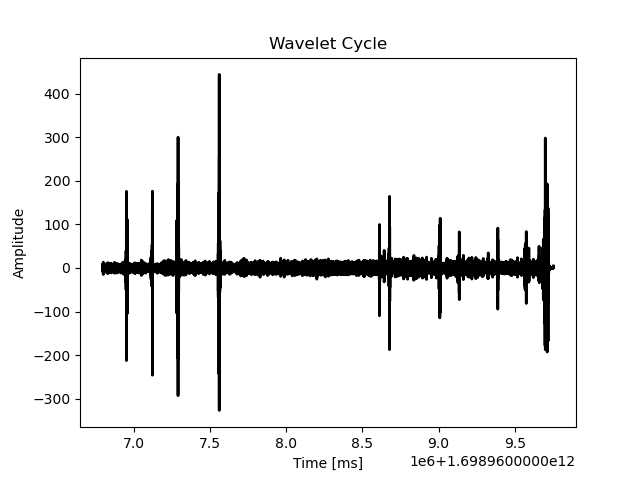
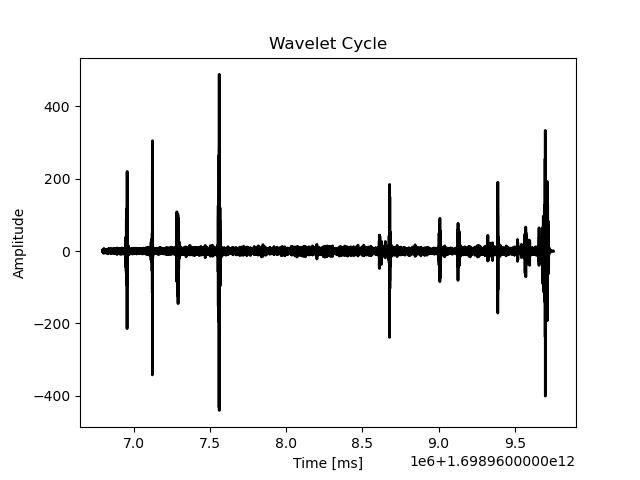
Update data_subplot function to include optional parameters and enhance main processing logic with peak detection and result visualization

diff --git a/src/main.py b/src/main.py
@@ -17,7 +17,8 @@ from modwt_matlab_fft import modwt
 from modwt_mra_matlab_fft import modwtmra
 from remove_nonLinear_trend import remove_nonLinear_trend
 from data_subplot import data_subplot
-from scipy.signal import resample
+from detect_peaks import detect_peaks
+
 # ======================================================================================================================
 
 print('\nstart processing ...')
@@ -30,6 +31,8 @@ if file.endswith(".csv"):
     if os.stat(fileName).st_size != 0:
         rawData = pd.read_csv(fileName)
         utc_time = rawData["Timestamp"].values
+        print("\U0001F4C5 BCG Start:", pd.to_datetime(utc_time.min(), unit='ms'))
+        print("\U0001F4C5 BCG End  :", pd.to_datetime(utc_time.max(), unit='ms'))
         data_stream = rawData["BCG"].values
         fs = 50
         print("✅ Loaded samples:", len(data_stream))
@@ -50,24 +53,23 @@ if file.endswith(".csv"):
         mask_bcg = (utc_time >= start_time) & (utc_time <= end_time)
         mask_rr = (rr_data['Timestamp'] >= start_time) & (rr_data['Timestamp'] <= end_time)
 
+
+
         synced_bcg = data_stream[mask_bcg]
         synced_utc = utc_time[mask_bcg]
         synced_rr = rr_data.loc[mask_rr]
         reference_hr = synced_rr['Heart Rate'].replace(0, np.nan).dropna().to_numpy()
-        print("UTC time units:", utc_time.min(), utc_time.max())
-        print("RR time units:", rr_data['Timestamp'].min(), rr_data['Timestamp'].max())
-        
 
-
-        print("\U0001F552 Sync window (ms):", start_time, "→", end_time)
-        print("\U0001F4CA Synced BCG samples:", len(synced_bcg))
-        print("\U0001F4CA Synced RR samples:", len(reference_hr))
 
         n_samples_50hz = int((end_time - start_time) / 1000 * fs)
         synced_bcg_resampled = resample(synced_bcg, n_samples_50hz)
 
         duration_sec = (synced_utc[-1] - synced_utc[0]) / 1000.0  # in seconds
         resampled_time = np.linspace(start_time, end_time, n_samples_50hz)
+
+        print("\U0001F552 Sync window (ms):", start_time, "→", end_time)
+        print("\U0001F4CA Synced BCG samples:", len(synced_bcg))
+        print("\U0001F4CA Synced RR samples:", len(reference_hr))
 
         # Denoise + Remove Movement Artifacts
         start_point, end_point, window_shift = 0, 500, 500
@@ -85,6 +87,58 @@ if file.endswith(".csv"):
         wavelet_cycle = dc[4]
         
 
+        #plot wavelet cycle
+        plt.figure()
+        plt.plot(clean_time, wavelet_cycle, color='k', lw=2)
+        plt.title('Wavelet Cycle')
+        plt.xlabel('Time [ms]')
+        plt.ylabel('Amplitude')
+        #save figure
+        plt.savefig('results/wavelet_cycle.png')
+
+
+        # Peak detection from filtered BCG
+        peaks = detect_peaks(wavelet_cycle, mpd=fs//2)
+        peak_times = clean_time[peaks] / 1000.0  # ms to seconds
+        rr_intervals_sec = np.diff(peak_times)
+        estimated_hr = 60.0 / rr_intervals_sec
+
+        # Align arrays
+        min_len = min(len(estimated_hr), len(reference_hr))
+        estimated_hr = estimated_hr[:min_len]
+        reference_hr = reference_hr[:min_len]
+
+        # Metrics
+        mae = mean_absolute_error(reference_hr, estimated_hr)
+        rmse = np.sqrt(mean_squared_error(reference_hr, estimated_hr))
+        mape = np.mean(np.abs((reference_hr - estimated_hr) / reference_hr)) * 100
+
+        print('\nHeart Rate Comparison Metrics')
+        print('MAE:', mae)
+        print('RMSE:', rmse)
+        print('MAPE:', mape)
+
+        # Bland-Altman
+        mean_hr = (estimated_hr + reference_hr) / 2
+        diff_hr = estimated_hr - reference_hr
+        plt.figure()
+        plt.scatter(mean_hr, diff_hr)
+        plt.axhline(np.mean(diff_hr), color='gray')
+        plt.axhline(np.mean(diff_hr) + 1.96*np.std(diff_hr), color='red', linestyle='--')
+        plt.axhline(np.mean(diff_hr) - 1.96*np.std(diff_hr), color='red', linestyle='--')
+        plt.title("Bland-Altman Plot")
+        plt.xlabel("Mean HR")
+        plt.ylabel("Difference (Estimated - Reference)")
+        plt.savefig('results/bland_altman.png')
+
+        # Pearson
+        r, _ = pearsonr(reference_hr, estimated_hr)
+        plt.figure()
+        plt.scatter(reference_hr, estimated_hr)
+        plt.title(f"Pearson Correlation (r={r:.2f})")
+        plt.xlabel("Reference HR")
+        plt.ylabel("Estimated HR")
+        plt.savefig('results/pearson_correlation.png')
 
         # Vitals
         t1, t2, window_length, window_shift = 0, 500, 500, 500
@@ -105,6 +159,6 @@ if file.endswith(".csv"):
 
         # Visualization
         t1, t2 = 2500, 5000
-        data_subplot(data_stream, movement, breathing, wavelet_cycle, t1, t2)
+        data_subplot(clean_bcg, movement, breathing, wavelet_cycle, t1, t2)
 
     print('\nEnd processing ...')

diff --git a/src/data_subplot.py b/src/data_subplot.py
@@ -10,7 +10,7 @@ def normalize(sig):
     return sig
 
 
-def data_subplot(raw_data, movement, breathing, dc, t1, t2):
+def data_subplot(raw_data, movement, breathing, dc, t1, t2, peaks=None, clean_time=None):
     raw_data = normalize(raw_data)
     movement = normalize(movement)
     breathing = normalize(breathing)
